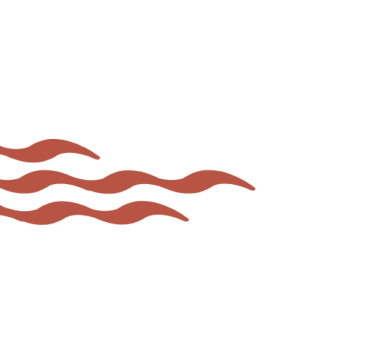
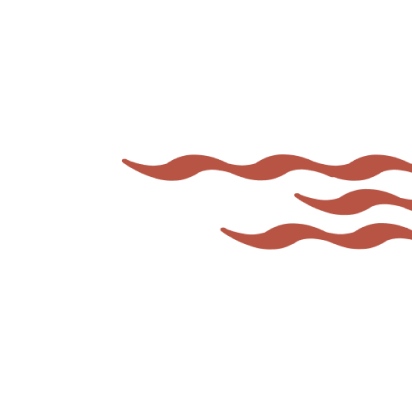
Finish desktop

Changed region(s): [[0.0, 0.3626, 1.0, 0.6346]]

diff --git a/src/app/about-us/page.js b/src/app/about-us/page.js
@@ -32,6 +32,18 @@ const Founder = [
 export default function AboutUs() {
     return(
         <>
+        <Image
+            src={'/Object-graphic4 1.png'}
+            width={200}
+            height={200}
+            className="absolute left-0 top-3/4 z-10 translate-y-20"
+        />
+        <Image
+            src={'/Object-graphic3 1.png'}
+            width={300}
+            height={300}
+            className="absolute right-0 top-2/3 z-10 translate-y-28"
+        />
         <div className="w-screen h-screen">
             <Image
                 src={'/images/about-us-hero.png'}

diff --git a/src/app/join-us/page.js b/src/app/join-us/page.js
@@ -30,6 +30,12 @@ const Partners = ({ partner })=>{
 export default function JoinUs() {
     return(
         <>
+        <Image
+            src={'/Object-graphic6 2.png'}
+            width={300}
+            height={300}
+            className="absolute right-48 top-1/2 translate-y-24"
+        />
         <div className="max-w-full max-h-fit bg-white grid grid-flow-cols text-secondary text-3xl mt-44 mb-10 mx-60 gap-y-6 items-center">
             <h1 className="text-8xl font-bold flex-grow">Join Us</h1>
             <p className="w-full">
